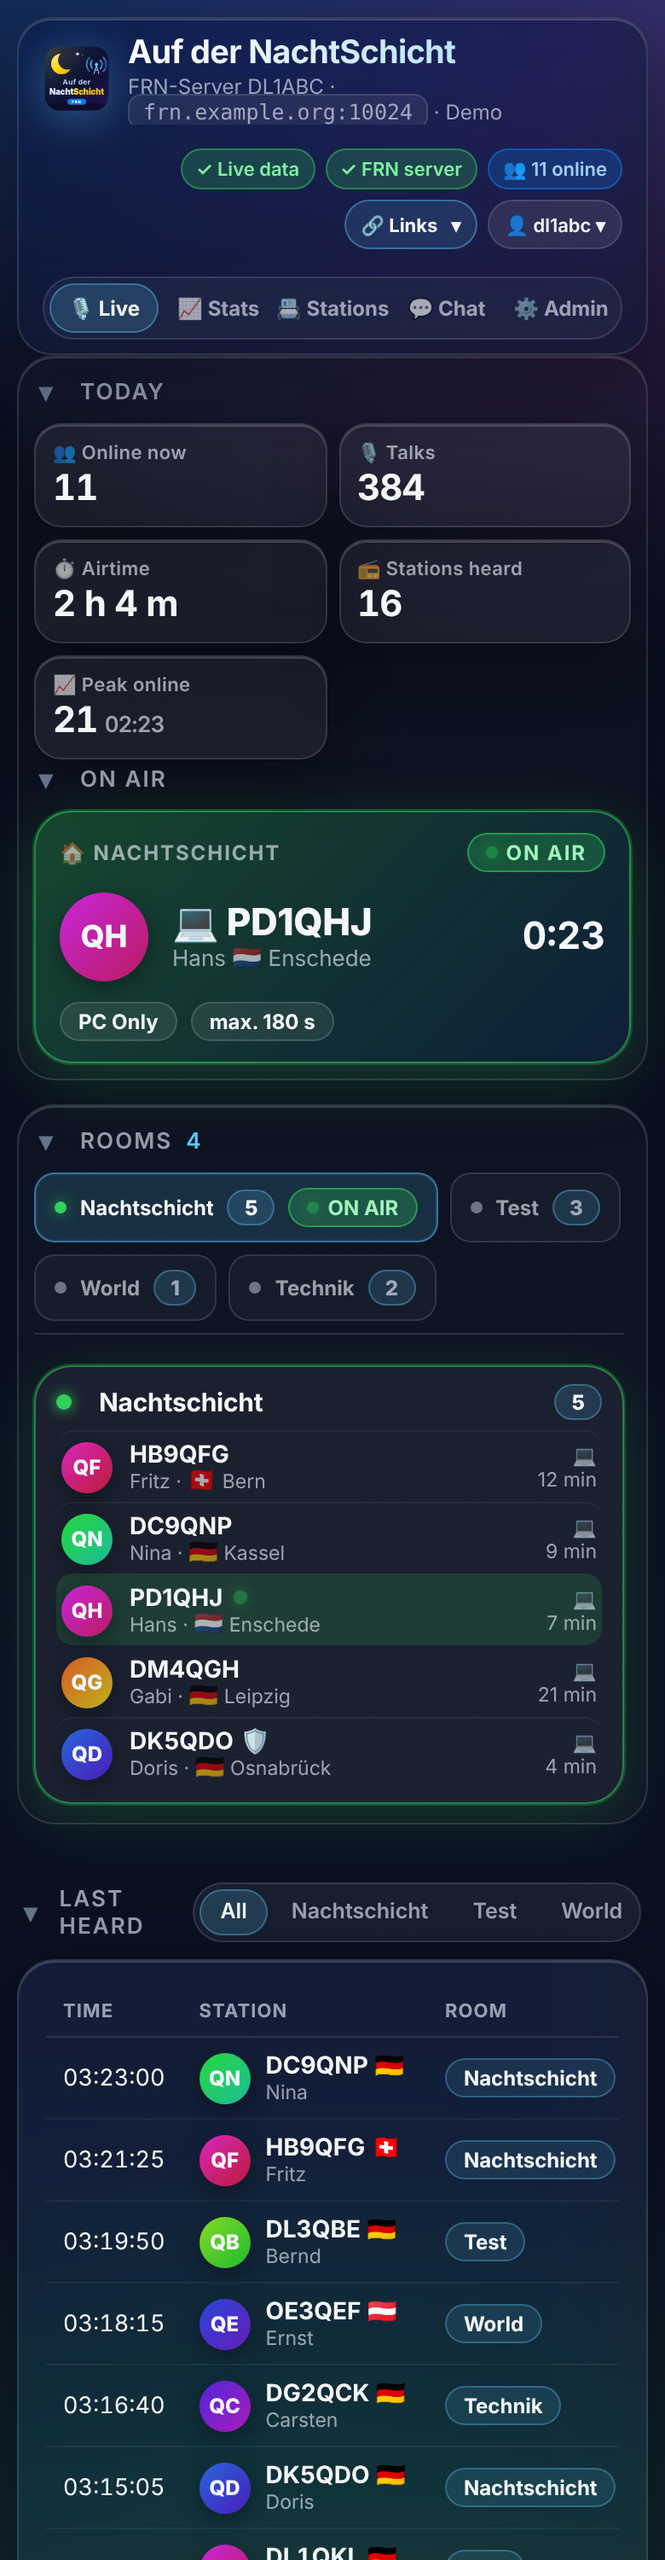
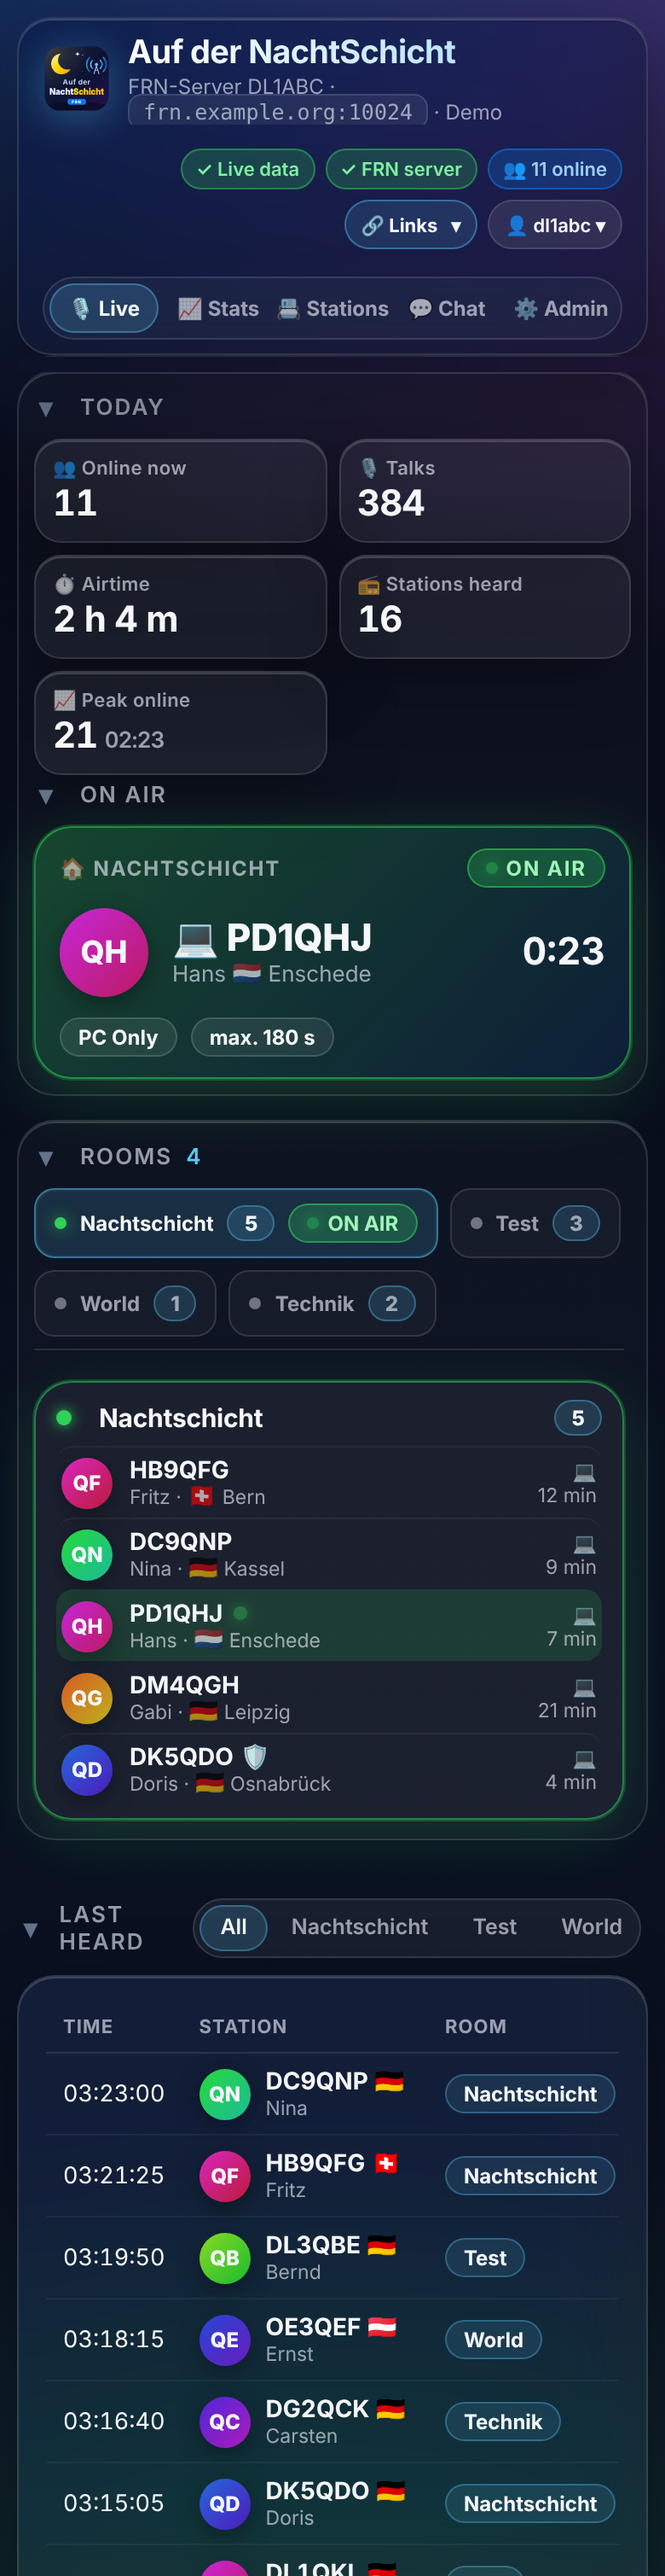
Improve live dashboard spacing and room order

diff --git a/static/app.js b/static/app.js
@@ -250,6 +250,16 @@ function renderChips() {
 }
 const CL_ICON = { 0: ['🔗', 'Crosslink'], 1: ['📻', 'Gateway (radio)'], 2: ['💻', 'PC only'] };
 function clIcon(c) { if (c.parrot) return '<span title="Parrot – echo test">🦜</span>'; const x = CL_ICON[Number(c.client)] || CL_ICON[2]; return `<span title="${x[1]}">${x[0]}</span>`; }
+function clientOrder(c) {
+    if (c.parrot) return -1;
+    const type = Number(c.client);
+    if (type === 2) return 5;
+    if (type === 0) return 0;
+    if (['OWNER', 'NETOWNER', 'ADMIN'].includes(c.access)) return 1;
+    if (Number(c.status) === 0) return 2;
+    if (Number(c.status) === 1) return 3;
+    return 4;
+}
 function renderOnAir() {
     const cards = rooms().filter(r => r.talking).map(r => ({ r, t: r.talking }));
     if (!cards.length) {
@@ -281,7 +291,7 @@ function renderRooms() {
         </button>`;
     }).join('');
     const n = selected.clients.filter(c => !c.parrot).length;
-    const rows = selected.clients.map(c => `<div class="st-row ${c.talking ? 'talk' : ''} ${c.parrot ? '' : 'station-link'}" ${c.parrot ? '' : `onclick="openStation('${esc(c.callsign)}')"`}>
+    const rows = selected.clients.map((c, i) => ({ c, i })).sort((a, b) => clientOrder(a.c) - clientOrder(b.c) || a.i - b.i).map(({ c }) => `<div class="st-row ${c.talking ? 'talk' : ''} ${c.parrot ? '' : 'station-link'}" ${c.parrot ? '' : `onclick="openStation('${esc(c.callsign)}')"`}>
         ${c.parrot ? '<span class="avatar sm" style="background:linear-gradient(135deg,#30d158,#0a84ff)">🦜</span>' : avatar(c.callsign, 'sm')}<div class="c"><b>${esc(c.callsign)}</b>${c.talking ? '<span class="mic"></span>' : ''}${c.muted ? ' <span title="muted">🔇</span>' : ''}${c.access === 'OWNER' || c.access === 'NETOWNER' ? ' <span title="Owner">👑</span>' : c.access === 'ADMIN' ? ' <span title="Admin">🛡</span>' : ''}
         <small>${esc(c.name)}${c.name && (c.city || c.country) ? ' · ' : ''}${flag(c.country)} ${esc(place(c))}</small></div>
         <div class="r"><span class="band" title="${esc(c.band)}">${clIcon(c)} <span class="band-txt">${esc((c.band || '').length > 22 ? c.band.slice(0, 21) + '…' : c.band || '')}</span></span>${c.since ? `<div data-since="${c.since}">${since(c.since)}</div>` : ''}</div>

diff --git a/static/app.css b/static/app.css
@@ -38,6 +38,7 @@ button, input, select, textarea { font: inherit; color: inherit; }
 /* Header */
 header { position: sticky; top: 10px; z-index: 50; border-radius: var(--radius-lg); padding: 10px 16px;
          display: flex; align-items: center; justify-content: space-between; gap: 12px; flex-wrap: wrap; background: rgba(20, 26, 45, 0.55); }
+.container > header { margin-bottom: 18px; }
 .brand { display: flex; align-items: center; gap: 14px; min-width: 0; }
 .brand img { height: 56px; width: 56px; border-radius: 14px; filter: drop-shadow(0 4px 12px rgba(90, 200, 250, 0.35)); }
 .brand h1 { margin: 0; font-size: 24px; font-weight: 700; letter-spacing: -0.02em;

diff --git a/readme.md b/readme.md
@@ -33,7 +33,7 @@ ADN FRN Server ist eine **frische Oberfläche für den Java-FRN-Server** von fre
 
 | | |
 |---|---|
-| 🎙 **Live-Dashboard** | Wer gerade spricht, steht oben (**ON AIR**). Räume mit ihren Stationen, Last heard, Comings & goings. Für Smartphone und Desktop gebaut, Änderungen kommen per WebSocket sofort. |
+| 🎙 **Live-Dashboard** | Wer gerade spricht, steht oben (**ON AIR**). Räume mit sortierten Stationslisten (Crosslinks, Admins, QRV, QRL; PC Only zuletzt), Last heard und Comings & goings. Für Smartphone und Desktop gebaut, Änderungen kommen per WebSocket sofort. |
 | 📈 **Statistik** | Sprechzeit und Durchgänge je Raum und Station, heute bis ein Jahr, Aktivität nach Wochentag und Uhrzeit, Spitzenwert der Stationen online. |
 | 📇 **Stationen** | Alle gehörten Stationen mit Suche, Avatar, Land und Ort; Detailansicht je Station. |
 | ⚙ **Admin-Portal statt Config-Dateien** | Alle Einstellungen, Räume und FRN-Konten liegen in SQLite; frn_adn schreibt daraus `server.properties`. Server starten, stoppen und neu starten per Knopf. |

diff --git a/docs/de/dashboard.md b/docs/de/dashboard.md
@@ -52,7 +52,7 @@ Die Abschnitte lassen sich wie beim DMR-Dashboard mit **▾** zuklappen; der Bro
 
 - **Today** – Online jetzt, Durchgänge, Sprechzeit, gehörte Stationen und Spitzenwert heute.
 - **On air** – pro Raum eine grüne Karte mit Rufzeichen, Name, Ort, Client-Art und laufender Zeit; `max. 180 s` ist die maximale Sendezeit des Raums. Auch der Parrot erscheint hier, wenn er einen Durchgang abspielt.
-- **Rooms** – jeder Raum mit seinen Stationen: 📻 Gateway (Funk), 💻 PC-Client, 🔗 Crosslink, 🦜 Parrot; 🔇 stumm. 🔒 = auf dem Dashboard versteckt (nur nach Login).
+- **Rooms** – jeder Raum mit seinen Stationen: 📻 Gateway (Funk), 💻 PC-Client, 🔗 Crosslink, 🦜 Parrot; 🔇 stumm. Die Stationsliste sortiert Crosslinks zuerst, dann Admins/Owner, QRV, QRL und die übrigen Stationen. **PC Only steht immer am Ende.** 🔒 = auf dem Dashboard versteckt (nur nach Login).
 - **Last heard** – die letzten Durchgänge mit Dauer laut FRN-Server, filterbar nach Raum.
 - **Comings & goings** – Logins und Logouts.
 

diff --git a/CHANGELOG.md b/CHANGELOG.md
@@ -14,6 +14,7 @@ Format: neueste Version zuerst. Die Versionsnummer steht in `frnadn/__init__.py`
 - Nach einem Dashboard-Upgrade wartet die Seite, bis das Dashboard wieder antwortet, und lädt sich dann neu.
 
 ### Neu
+- Live-Dashboard: mehr Abstand zwischen Kopfzeile und Inhalt; Stationen je Raum in der Reihenfolge Crosslinks, Admins/Owner, QRV, QRL, übrige Stationen und PC Only zuletzt.
 - **Link-Liste wie bei HBlink4-FreeRadioID**: Symbol, Name, Adresse, „neuer Tab“ je Eintrag, Reihenfolge per ↑/↓, Schnellstart-Knöpfe, Schalter „Link-Menü anzeigen“, eigener Knopftext und Darstellung als Aufklapp-Menü oder als Knopfreihe. Erlaubt sind `https://`, `http://`, `mailto:`, `#tab` und `/pfad`.
 - **Menü und Kopfzeile wie bei HBlink4**: Reiter mittig in der Kopfzeile, Links-Knopf, Status-Chips und Anmeldung in einer Zeile; schmal auf dem Smartphone.
 - Anzeige im Update-Bereich: installierte und neue Version, Commits seit dem eigenen Stand, Link zum Vergleich.
